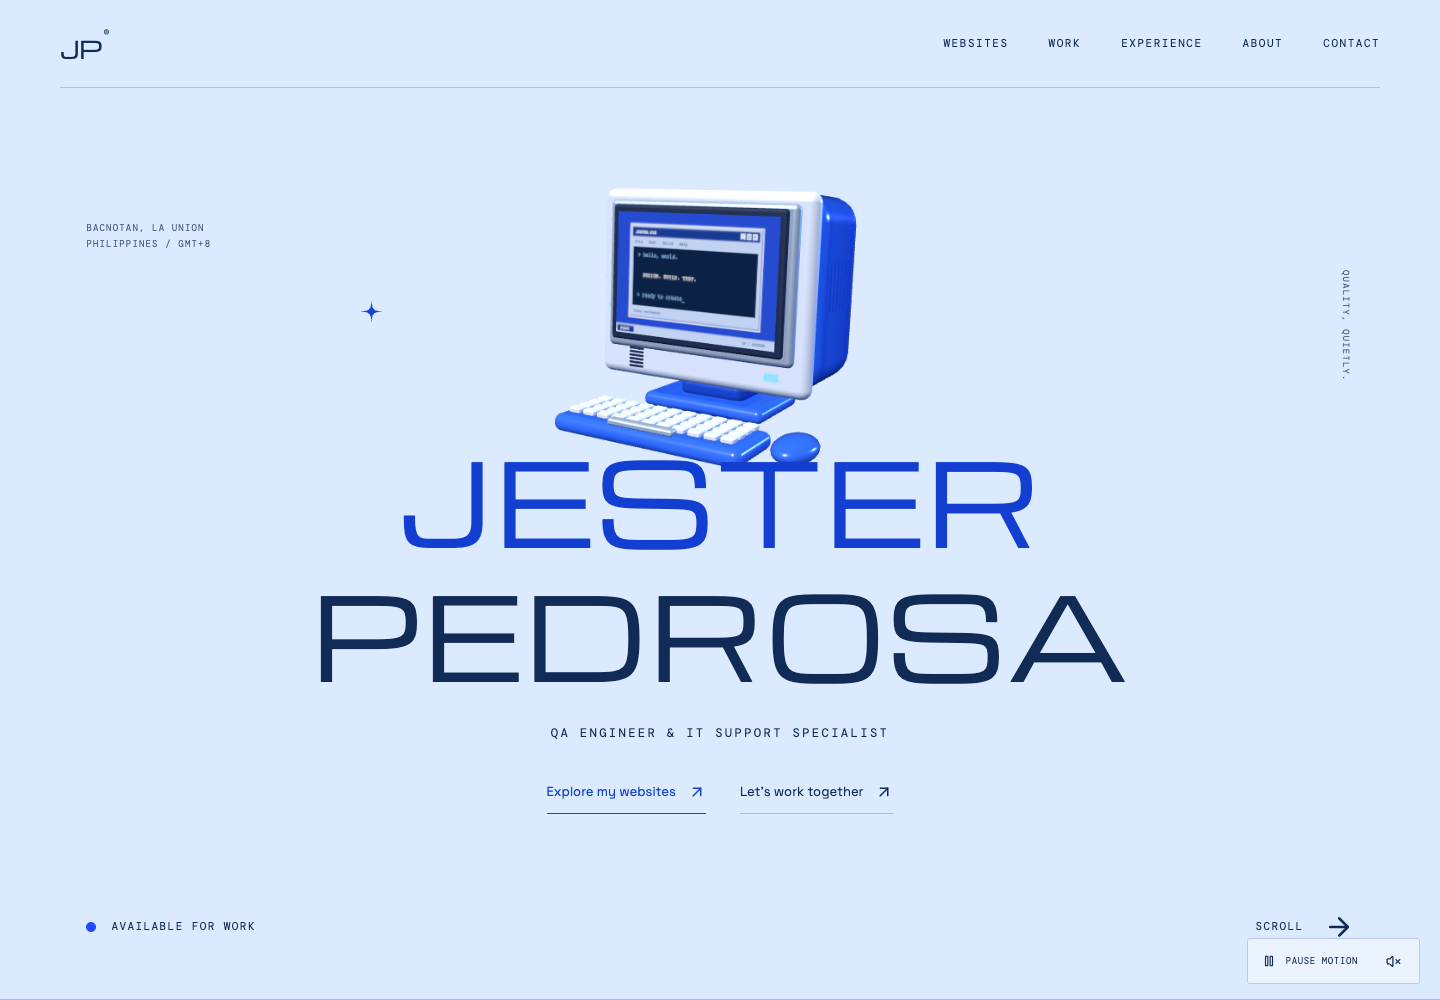
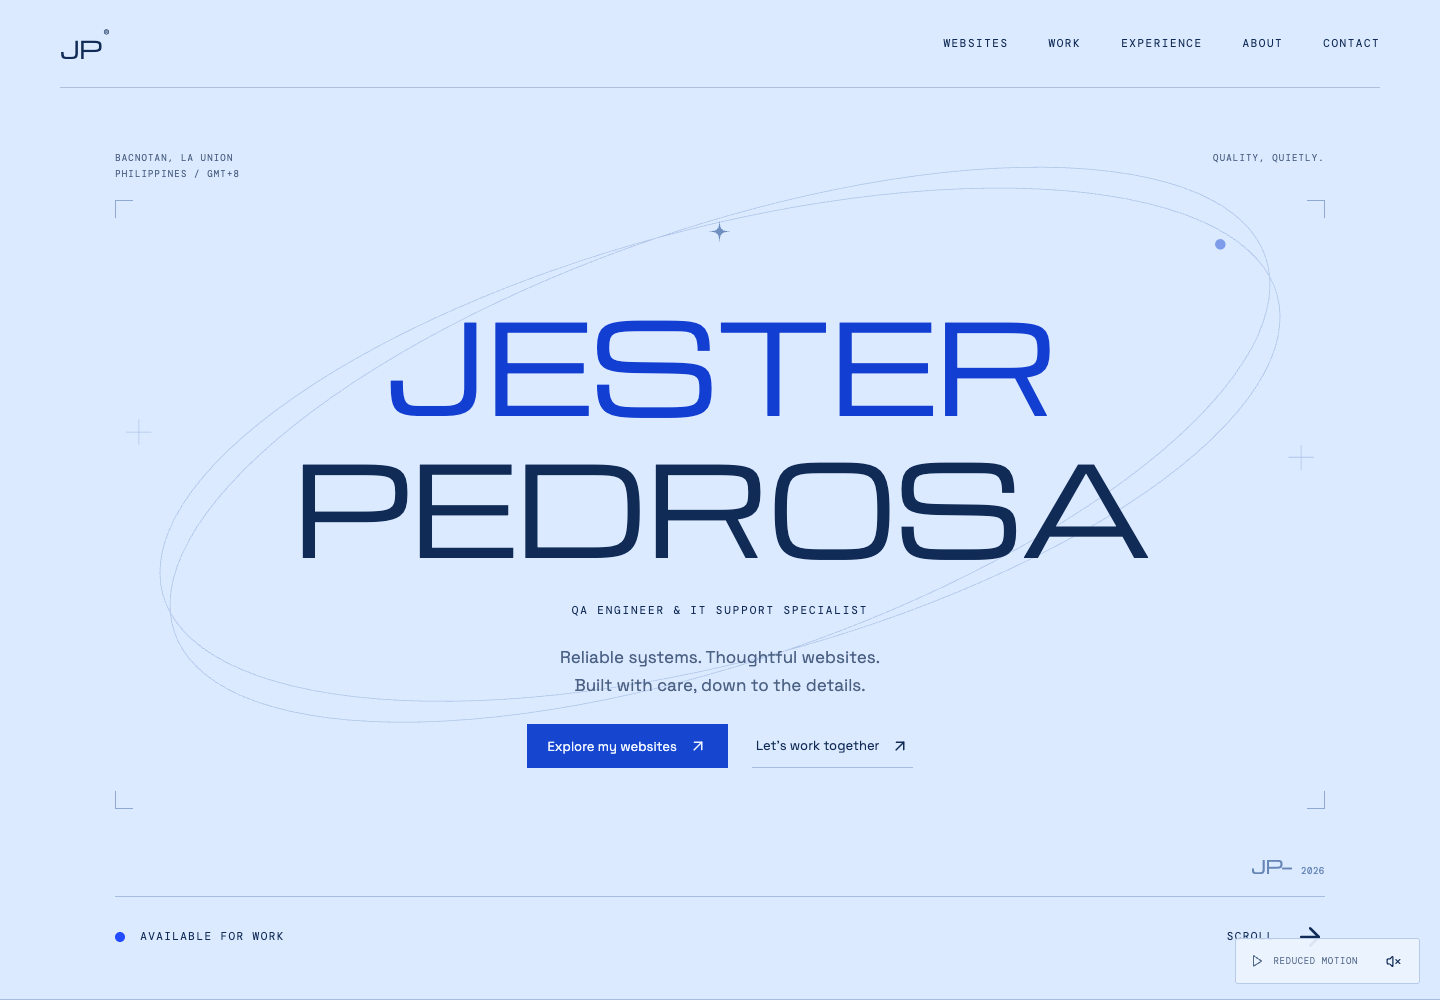
Refine hero with professional Y2K typography and orbital details

diff --git a/src/App.jsx b/src/App.jsx
@@ -6,7 +6,6 @@ import gsap from 'gsap';
 import { useGSAP } from '@gsap/react';
 import { ScrollTrigger } from 'gsap/ScrollTrigger';
 import Lenis from 'lenis';
-import DeveloperComputer from './components/DeveloperComputer';
 import { profile, projects, websites } from './data';
 import WebsiteShowcase from './components/WebsiteShowcase';
 gsap.registerPlugin(ScrollTrigger,useGSAP);
@@ -49,7 +48,6 @@ export default function App(){
  useEffect(()=>{if(paused)return;const lenis=new Lenis({duration:1.05,smoothWheel:true,anchors:false});lenis.on('scroll',ScrollTrigger.update);const update=t=>lenis.raf(t*1000);gsap.ticker.add(update);return()=>{gsap.ticker.remove(update);lenis.destroy();};},[paused]);
 
  useGSAP(()=>{if(paused)return;
-  gsap.to('.hero-orb',{y:65,x:0,scale:.82,ease:'none',scrollTrigger:{trigger:'.hero',start:'top top',end:'bottom top',scrub:1}});
   gsap.fromTo('.about-copy .word',{color:'#59749c'},{color:'#102b56',stagger:.15,ease:'none',scrollTrigger:{trigger:'.about-layout',start:'top 22%',end:'+=450',pin:innerWidth>900,scrub:1}});
   gsap.utils.toArray('.section-heading').forEach(el=>gsap.from(el,{y:30,opacity:.2,duration:.9,ease:'power3.out',scrollTrigger:{trigger:el,start:'top 90%',once:true}}));
   gsap.utils.toArray('.count').forEach(el=>{const value=Number(el.dataset.value),obj={n:0};gsap.to(obj,{n:value,duration:1.3,ease:'power2.out',onUpdate:()=>el.textContent=Math.round(obj.n)+(el.dataset.suffix||''),scrollTrigger:{trigger:el,start:'top 90%',once:true}});});
@@ -65,7 +63,7 @@ export default function App(){
   <header ref={navRef} className={`site-nav ${hiddenNav?'nav-hidden':''}`}><a className="logo" href="#top" onClick={e=>jump(e,'top')} aria-label="Jester Pedrosa, back to top">JP<sup>®</sup></a><nav aria-label="Main navigation">{links.map(([label,id])=><a key={id} href={`#${id}`} onClick={e=>jump(e,id)}>{label}</a>)}</nav><button ref={menuButton} className="menu-toggle" aria-expanded={menu} aria-controls="mobile-menu" onClick={()=>setMenu(!menu)} aria-label="Open navigation"><Menu/></button></header>
   {menu&&<div ref={menuRef} id="mobile-menu" className="mobile-menu" role="dialog" aria-modal="true" aria-label="Navigation"><button className="menu-close" onClick={()=>setMenu(false)} aria-label="Close navigation"><X/></button>{links.map(([label,id])=><a key={id} href={`#${id}`} onClick={e=>jump(e,id)}>{label}</a>)}<span className="mono">JESTER PEDROSA / LA UNION, PH</span></div>}
   <main id="main" className="overflow-x-hidden w-full max-w-full" tabIndex="-1">
-   <section id="top" className="hero hero-centered" tabIndex="-1" aria-labelledby="hero-title"><div className="hero-copy"><h1 id="hero-title" className="w-full max-w-none"><span>JESTER</span><span>PEDROSA</span></h1><p className="hero-role mono">QA ENGINEER &amp; IT SUPPORT SPECIALIST</p><div className="hero-actions"><a href="#websites" onClick={e=>jump(e,'websites')}>Explore my websites <ArrowUpRight size={18}/></a><a href="#contact" onClick={e=>jump(e,'contact')}>Let’s work together <ArrowUpRight size={18}/></a></div></div><div className="hero-orb"><DeveloperComputer paused={paused}/></div><span className="hero-spark"><Spark/></span><span className="hero-coordinate mono">BACNOTAN, LA UNION<br/>PHILIPPINES / GMT+8</span><span className="hero-side-note mono">QUALITY, QUIETLY.</span><div className="hero-bottom"><span className="availability mono"><i/> Available for work</span><a className="scroll-link mono" href="#about" onClick={e=>jump(e,'about')}>Scroll <ArrowRight size={30}/></a></div></section>
+   <section id="top" className="hero hero-centered hero-professional" tabIndex="-1" aria-labelledby="hero-title"><div className="hero-copy"><h1 id="hero-title" className="w-full max-w-none"><span>JESTER</span><span>PEDROSA</span></h1><p className="hero-role mono">QA ENGINEER &amp; IT SUPPORT SPECIALIST</p><p className="hero-intro">Reliable systems. Thoughtful websites.<br/>Built with care, down to the details.</p><div className="hero-actions"><a href="#websites" onClick={e=>jump(e,'websites')}>Explore my websites <ArrowUpRight size={18}/></a><a href="#contact" onClick={e=>jump(e,'contact')}>Let’s work together <ArrowUpRight size={18}/></a></div></div><svg className="hero-orbits" viewBox="0 0 1200 600" fill="none" aria-hidden="true"><ellipse cx="600" cy="300" rx="550" ry="206" transform="rotate(-15 600 300)"/><ellipse cx="600" cy="300" rx="550" ry="206" transform="rotate(-19 600 300)"/><path d="M34 288h24m-12-12v24M1142 312h24m-12-12v24"/><circle cx="1077" cy="109" r="5"/></svg><div className="hero-register" aria-hidden="true"><i/><i/><i/><i/></div><span className="hero-spark"><Spark/></span><span className="hero-coordinate mono">BACNOTAN, LA UNION<br/>PHILIPPINES / GMT+8</span><span className="hero-side-note mono">QUALITY, QUIETLY.</span><span className="hero-signature" aria-hidden="true">JP—<span>2026</span></span><div className="hero-bottom"><span className="availability mono"><i/> Available for work</span><a className="scroll-link mono" href="#about" onClick={e=>jump(e,'about')}>Scroll <ArrowRight size={30}/></a></div></section>
    <section id="about" className="about section" tabIndex="-1" aria-labelledby="about-title"><div className="section-top"><span className="mono section-index">01 / ABOUT</span><Clock/></div><div className="about-layout"><h2 id="about-title" className="section-heading">QUALITY,<br/>QUIETLY.</h2><div><p className="about-copy">{profile.about.split(' ').map((word,i)=><span className="word" key={i}>{word} </span>)}</p><div className="about-details"><div className="portrait">{profile.portrait?<img src={profile.portrait} loading="lazy" alt="Jester Pedrosa"/>:<><span className="portrait-monogram" aria-hidden="true">JP</span><span className="mono">PORTRAIT TO COME</span></>}<Spark/></div><p className="about-note">Behind every reliable product,<br/>there’s someone asking<br/><em>“What if?”</em><span className="mono">BACNOTAN, LA UNION<br/>PHILIPPINES</span></p></div></div></div><div className="stats"><div><span className="count" data-value="4" data-suffix="+">4+</span><span className="mono">YEARS OF EXPERIENCE</span></div><div><span className="count" data-value="5">5</span><span className="mono">FEATURED PROJECTS</span></div><div><span className="stat-words">GOV +<br/>INTERNATIONAL</span><span className="mono">CLIENT EXPERIENCE</span></div></div></section>
    <WebsiteShowcase websites={websites}/>
    <section id="work" className="work section" tabIndex="-1" aria-labelledby="work-title"><div className="section-top"><span className="mono section-index">02 / SELECTED WORK</span><span className="mono">FIVE PROJECTS. ONE STANDARD.</span></div><h2 id="work-title" className="section-heading">BUILT TO<br/>BE RELIABLE.</h2><div className="work-table-wrap"><table className="work-table"><caption className="sr-only">Selected QA and enterprise projects. Expand a case study for responsibilities and scope.</caption><thead><tr><th scope="col">No.</th><th scope="col">Project</th><th scope="col">Client</th><th scope="col">Role</th><th scope="col">Details</th></tr></thead>{projects.map((p,i)=><tbody key={p.id}><tr className={open===i?'work-data-row expanded':'work-data-row'}><td className="mono work-number">{p.id}</td><th scope="row"><span className="work-project-name">{p.title}</span><span className="work-project-type">{p.type}</span></th><td>{p.client}</td><td>{p.role}</td><td><button className="work-details-button" aria-label={`${open===i?'Close':'Read'} ${p.title} case study`} aria-expanded={open===i} aria-controls={`project-${i}`} onClick={()=>setOpen(open===i?null:i)}>{open===i?'Close':'Case study'}{open===i?<Minus size={17}/>:<Plus size={17}/>}</button></td></tr><tr className="work-detail-row" hidden={open!==i}><td colSpan="5"><div id={`project-${i}`} className="work-detail-content"><p>{p.description}</p><div><p className="mono work-scope">TC-{p.id.padStart(3,'0')} / {p.scope}</p><ul className="work-tag-list" aria-label="Project skills">{p.tags.map(tag=><li key={tag}>{tag}</li>)}</ul></div></div></td></tr></tbody>)}</table></div><p className="work-table-note">Selected client work. Live platform links are not published.</p></section>

diff --git a/src/styles.css b/src/styles.css
@@ -106,3 +106,26 @@
 @media(max-width:850px){.website-table{min-width:700px}.website-table-wrap{margin-top:35px;padding-bottom:10px}.website-table h3{font-size:15px}.website-table tbody td,.website-table tbody th{padding-block:24px}}
 @media(prefers-reduced-motion:reduce){.website-table-preview img{transition:none}}
 .website-table-wrap{position:relative}
+
+/* Typographic Y2K hero: orbital linework and restrained registration details. */
+.hero-professional{min-height:780px;max-height:1050px;overflow:hidden}
+.hero-professional .hero-copy{top:29%;left:8%;right:8%}
+.hero-professional h1{font-size:clamp(54px,8.6vw,134px);line-height:1.15;letter-spacing:-.025em}
+.hero-professional .hero-role{font-size:11px;letter-spacing:.17em;margin-top:26px}
+.hero-intro{font-size:17px;line-height:1.65;margin-top:23px;color:var(--muted)}
+.hero-professional .hero-actions{margin-top:25px;gap:24px}
+.hero-professional .hero-actions a{padding:8px 4px}
+.hero-professional .hero-actions a:first-child{padding:8px 20px;background:var(--blue);color:var(--surface);border:1px solid var(--blue)}
+.hero-orbits{position:absolute;left:0;top:13%;width:100%;height:63%;z-index:-1;stroke:#7d9dcc;stroke-width:.75;opacity:.48;pointer-events:none}
+.hero-orbits circle{fill:var(--blue);stroke:none}
+.hero-register{position:absolute;inset:20% 8% 19%;z-index:-1;pointer-events:none}
+.hero-register i{position:absolute;width:18px;height:18px;border-color:#8eaad3;border-style:solid;border-width:0}
+.hero-register i:nth-child(1){left:0;top:0;border-left-width:1px;border-top-width:1px}.hero-register i:nth-child(2){right:0;top:0;border-right-width:1px;border-top-width:1px}.hero-register i:nth-child(3){left:0;bottom:0;border-left-width:1px;border-bottom-width:1px}.hero-register i:nth-child(4){right:0;bottom:0;border-right-width:1px;border-bottom-width:1px}
+.hero-professional .hero-coordinate{top:15%;left:8%}
+.hero-professional .hero-side-note{top:15%;right:8%;writing-mode:horizontal-tb}
+.hero-professional .hero-spark{top:22%;left:calc(50% - 12px);color:#6e8fbf}
+.hero-signature{position:absolute;right:8%;bottom:12%;font:18px 'Michroma';letter-spacing:-.04em;color:#6686b6}
+.hero-signature span{font:9px 'DM Mono';letter-spacing:.06em;margin-left:10px}
+.hero-professional .hero-bottom{bottom:4%;left:8%;right:8%;padding-top:18px;border-top:1px solid var(--line)}
+@media(hover:hover) and (pointer:fine){.hero-professional .hero-actions a:first-child:hover{background:#102b56;border-color:#102b56;color:white}}
+@media(max-width:700px){.hero-professional{min-height:740px;max-height:900px}.hero-professional .hero-copy{left:6%;right:6%;top:31%}.hero-professional h1{font-size:9.7vw;line-height:1.3}.hero-professional .hero-role{font-size:8px;letter-spacing:.1em;max-width:280px;margin-top:22px}.hero-intro{font-size:15px;line-height:1.7;margin-top:22px}.hero-professional .hero-coordinate{left:6%;top:15%;font-size:7px}.hero-professional .hero-side-note{right:6%;top:15%;font-size:7px}.hero-professional .hero-spark{top:24%;left:calc(50% - 8px)}.hero-professional .hero-actions{gap:15px;margin-top:26px}.hero-professional .hero-actions a:first-child{padding:8px 12px}.hero-register{inset:21% 6% 18%}.hero-orbits{width:180%;max-width:none;left:-40%;top:19%;height:43%;opacity:.35}.hero-signature{right:6%;bottom:12%;font-size:14px}.hero-professional .hero-bottom{left:6%;right:6%;bottom:5%}}

diff --git a/README.md b/README.md
@@ -18,4 +18,4 @@ npm run preview
 
 Vercel settings: framework **Vite**, build command **npm run build**, output directory **dist**. No environment variables are required.
 
-Website entries and profile content live in `src/data.js`. The 3D hero is in `src/components/DeveloperComputer.jsx` and includes reduced-motion and WebGL fallback support.
+Website entries and profile content live in `src/data.js`. The typographic hero in `src/App.jsx` uses lightweight orbital linework and Y2K registration details, without WebGL.
